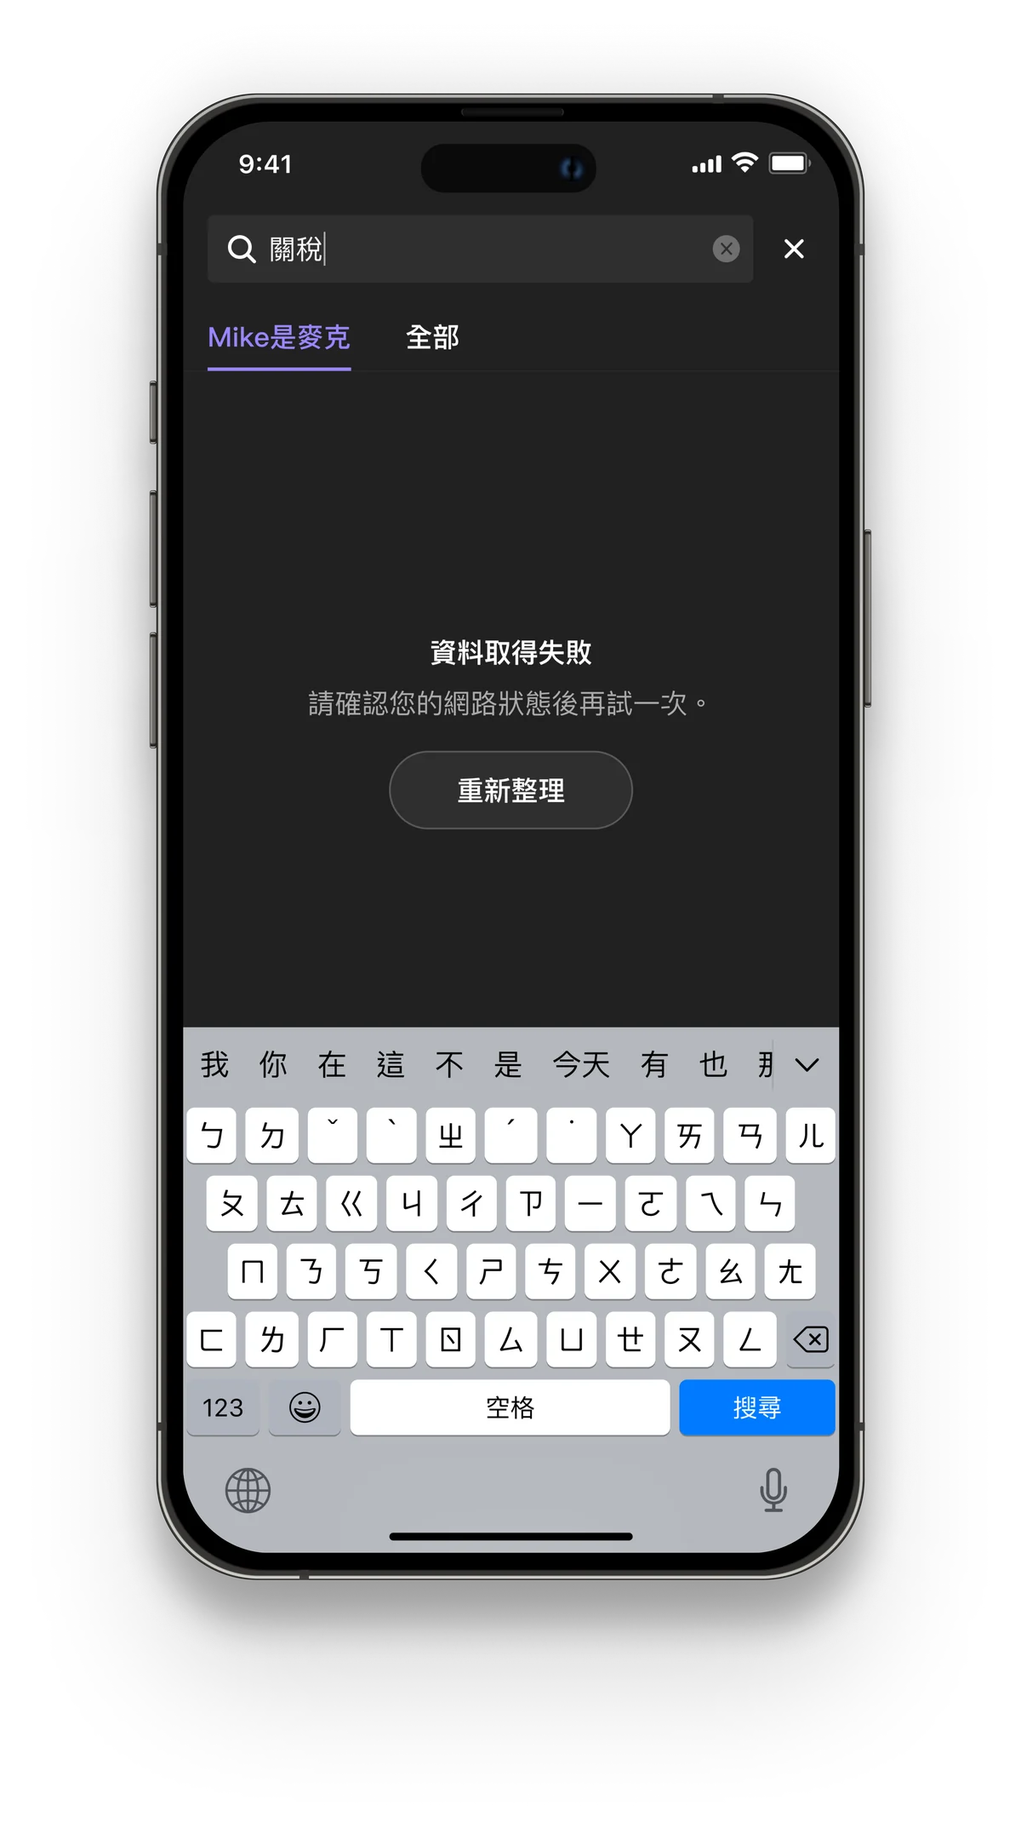
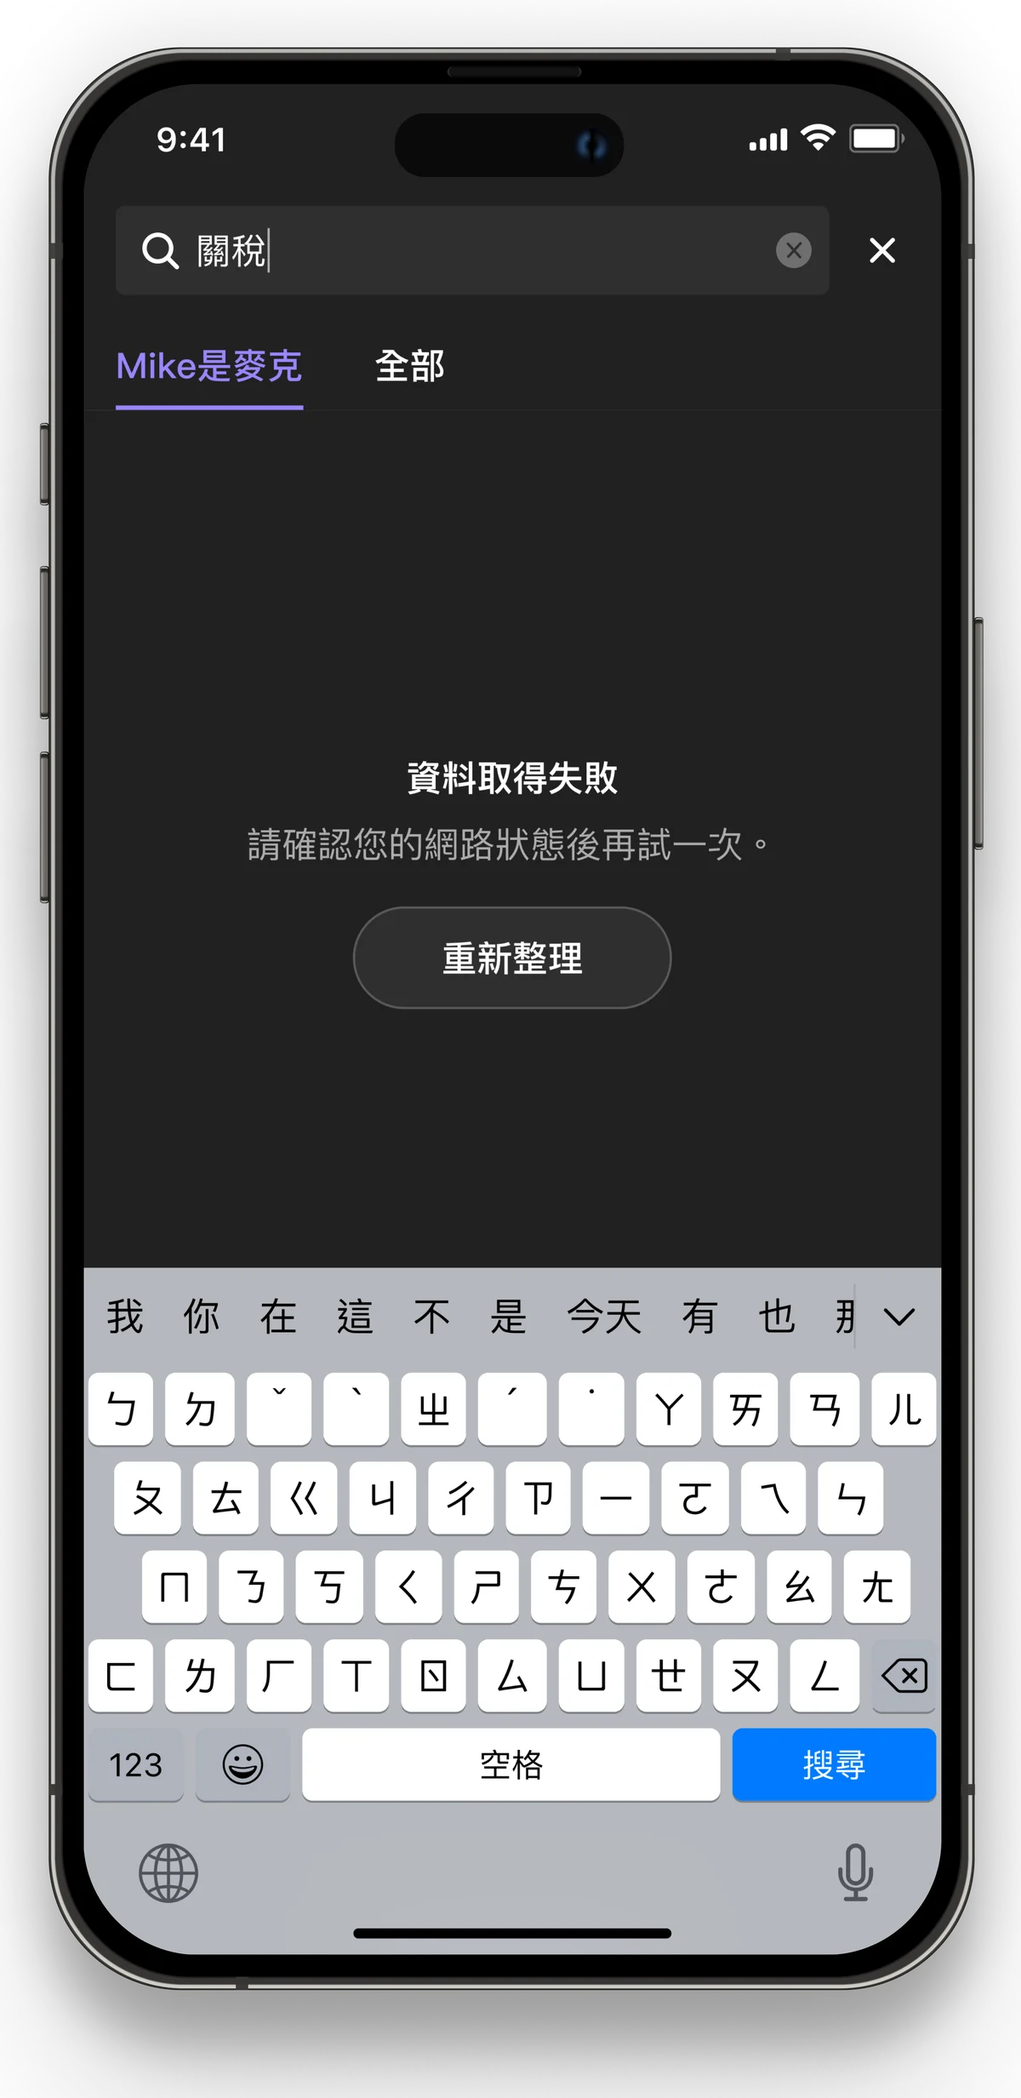
Case 06: trimmed state phone fills its slot
Claude-Session: https://claude.ai/code/session_01GjEy689vh6dg91TD7dTNVD

diff --git a/works/work-06-chat.html b/works/work-06-chat.html
@@ -7,7 +7,7 @@
 <meta name="description" content="Jade Shih 作品：APP 聊天室訊息搜尋功能優化，從問題定義到解法設計與規格交付。">
 <link rel="stylesheet" href="../jade-portfolio-ds/tokens.css?v=202611131750">
 <link rel="stylesheet" href="../jade-portfolio-ds/components/bundle.css?v=202611131750">
-<link rel="stylesheet" href="../site.css?v=202611181334">
+<link rel="stylesheet" href="../site.css?v=202611181340">
 </head>
 <body>
 <a class="skip" href="#main">跳到主要內容</a>
@@ -38,7 +38,7 @@
     </div>
     <div class="cs-cards"></div>
     <div class="cs-gallery"></div>
-    <section class="cs-sec ch-problem"><header class="cs-sec__head"><p class="eyebrow">The problem</p><h2 class="cs-sec__title">What Went Wrong<small>發生了什麼問題</small></h2></header><p class="ch-big">聊天室沒有搜尋功能，<em>訊息越多，越難找到重要的那一則。</em></p><div class="ch-problem__grid"><div class="ch-pains"><article class="ch-pain"><span class="ch-pain__no">01</span><h3>找不到</h3><p>想回顧重要公告、投資事件或作者觀點，只能不斷往上滑，效率低下。</p></article><article class="ch-pain"><span class="ch-pain__no">02</span><h3>被淹沒</h3><p>關鍵訊息很快被新訊息蓋過，降低了訊息本身的價值。</p></article><article class="ch-pain"><span class="ch-pain__no">03</span><h3>不想留</h3><p>訊息量快速累積，用戶對聊天室的黏著度可能下降。</p></article></div><div class="ch-pimg"><picture><source srcset="../public/works/work-06-chat/web-01.webp?v=1118h" type="image/webp"><img src="../public/works/work-06-chat/web-01.png?v=1118h" width="2400" height="1515" alt="聊天室訊息堆疊，重要訊息被淹沒的示意" loading="lazy" decoding="async"></picture></div></div></section><section class="cs-sec"><header class="cs-sec__head"><p class="eyebrow">Who needs it</p><h2 class="cs-sec__title">User Stories<small>誰需要這個功能</small></h2></header><div class="ch-users"><article class="ch-user" data-tone="pink"><b>一般用戶</b><p>身為一般用戶，訊息數量龐大時，想輸入關鍵字快速找到過往對話。</p></article><article class="ch-user" data-tone="pink"><b>一般用戶</b><p>身為一般用戶，找到目標訊息後，想點擊直接跳到原位置、回顧上下文。</p></article><article class="ch-user" data-tone="cyan"><b>產品經理／營運</b><p>身為產品經理／營運，想提供穩定快速的搜尋，提高黏著度並維持競爭力。</p></article><article class="ch-user" data-tone="cyan"><b>客服／管理者</b><p>身為客服／管理者，處理糾紛時，想快速找到相關紀錄、降低人力成本。</p></article></div></section><section class="cs-sec"><header class="cs-sec__head"><p class="eyebrow">The solution</p><h2 class="cs-sec__title">How I Solved It<small>我怎麼解決</small></h2><p class="cs-sec__lead">以「找得到 → 看得懂 → 回得去」為主軸：搜尋、看摘要判斷、跳回原訊息檢視上下文。</p></header><div class="ch-rib"><svg class="ch-rib__bg" viewBox="0 0 1200 400" preserveAspectRatio="none" aria-hidden="true"><path d="M-20 250 C 180 140, 300 330, 520 290 S 820 150, 1000 260 S 1180 300, 1230 200" fill="none" stroke="#C2FF0A" stroke-width="54" stroke-linecap="round"/></svg><figure class="ch-rib__step"><figcaption><span>1</span><b>Search</b>輸入關鍵字</figcaption><div class="ch-phone"><picture><source srcset="../public/works/work-06-chat/web-02.webp" type="image/webp"><img src="../public/works/work-06-chat/web-02.jpg" width="1170" height="2532" alt="Search：輸入關鍵字" loading="lazy" decoding="async"></picture></div></figure><span class="ch-rib__arrow" aria-hidden="true">→</span><figure class="ch-rib__step"><figcaption><span>2</span><b>Find</b>看摘要找到目標訊息</figcaption><div class="ch-phone"><picture><source srcset="../public/works/work-06-chat/web-03.webp?v=1118d" type="image/webp"><img src="../public/works/work-06-chat/web-03.jpg?v=1118d" width="1170" height="2532" alt="Find：看摘要找到目標訊息" loading="lazy" decoding="async"></picture></div></figure><span class="ch-rib__arrow" aria-hidden="true">→</span><figure class="ch-rib__step"><figcaption><span>3</span><b>Jump</b>跳回原訊息、回顧上下文</figcaption><div class="ch-phone"><picture><source srcset="../public/works/work-06-chat/web-04.webp?v=1118c" type="image/webp"><img src="../public/works/work-06-chat/web-04.jpg?v=1118c" width="1170" height="2532" alt="Jump：跳回原訊息、回顧上下文" loading="lazy" decoding="async"></picture></div></figure></div></section><section class="cs-sec"><header class="cs-sec__head"><p class="eyebrow">Key decisions</p><h2 class="cs-sec__title">Design Decisions<small>關鍵設計決策</small></h2></header><article class="ch-dec"><div class="ch-dec__img"><div class="ch-sq"><picture><source srcset="../public/works/work-06-chat/web-05.webp?v=1118e" type="image/webp"><img src="../public/works/work-06-chat/web-05.png?v=1118e" width="1200" height="1200" alt="搜尋結果摘要：關鍵字高亮的兩行摘要" loading="lazy" decoding="async"></picture></div></div><div class="ch-dec__txt"><p class="eyebrow">Decision 01</p><h3>Smart Snippet<small>搜尋結果摘要</small></h3><ul><li>每則結果最多兩行，以「關鍵句＋前後句平均擴展」組成摘要，一眼看出上下文</li><li>關鍵字以主色高亮；同一則訊息有多組關鍵字只算一筆結果，但全部高亮</li><li>裁切時絕不切斷關鍵字，超出部分以「…」收尾</li></ul></div></article><article class="ch-dec ch-dec--flip"><div class="ch-dec__img"><div class="ch-sq"><picture><source srcset="../public/works/work-06-chat/web-06.webp?v=1118e" type="image/webp"><img src="../public/works/work-06-chat/web-06.png?v=1118e" width="1200" height="1200" alt="作者／全部雙頁籤與搜尋範圍提示" loading="lazy" decoding="async"></picture></div></div><div class="ch-dec__txt"><p class="eyebrow">Decision 02</p><h3>Two Tabs<small>作者／全部 雙頁籤</small></h3><ul><li>把作者（Mike是麥克）的發言獨立成第一個 Tab，最有價值的觀點優先看到</li><li>預設頁籤規則：作者有結果先選作者；作者無結果自動切到「全部」</li><li>結果上方標註「僅顯示近三個月結果」，讓搜尋範圍透明</li></ul></div></article><article class="ch-dec"><div class="ch-dec__img"><div class="ch-sq"><picture><source srcset="../public/works/work-06-chat/web-07.webp?v=1118e" type="image/webp"><img src="../public/works/work-06-chat/web-07.png?v=1118e" width="1200" height="1200" alt="Highlight 模式：跳回原訊息並可切換上下則" loading="lazy" decoding="async"></picture></div></div><div class="ch-dec__txt"><p class="eyebrow">Decision 03</p><h3>Highlight Mode<small>跳回原訊息檢視</small></h3><ul><li>點擊結果直接跳回聊天室中的原位置，關鍵字以色塊標示</li><li>底部提供 ↑↓ 切換上一則／下一則結果，到頭尾時自動 disable</li><li>「返回搜尋結果」一鍵回到列表，不必重新搜尋</li></ul></div></article></section><section class="cs-sec"><header class="cs-sec__head"><p class="eyebrow">Spec</p><h2 class="cs-sec__title">Every State Covered<small>完整狀態與規格</small></h2><p class="cs-sec__lead">交付給工程的不只畫面，還包含 12 種 UI 狀態、iOS／Android 長按流程與搜尋規則。</p></header><div class="hcar"><div class="hcar__track"><figure class="hcar__item"><div class=hcar__img><picture><source srcset="../public/works/work-06-chat/web-08.webp?v=1118f" type="image/webp"><img src="../public/works/work-06-chat/web-08.png?v=1118f" width="1200" height="2147" alt="搜尋錯誤" loading="lazy" decoding="async"></picture></div><figcaption>搜尋錯誤</figcaption></figure><figure class="hcar__item"><div class=hcar__img><picture><source srcset="../public/works/work-06-chat/web-09.webp" type="image/webp"><img src="../public/works/work-06-chat/web-09.jpg" width="1200" height="2147" alt="查詢無結果" loading="lazy" decoding="async"></picture></div><figcaption>查詢無結果</figcaption></figure><figure class="hcar__item"><div class="ph" style="aspect-ratio:1200/2147"><span><b>配圖</b>畫面待提供</span></div><figcaption>Loading</figcaption></figure><figure class="hcar__item"><div class="ph" style="aspect-ratio:1200/2147"><span><b>配圖</b>畫面待提供</span></div><figcaption>只輸入一個關鍵字</figcaption></figure><figure class="hcar__item"><div class="ph" style="aspect-ratio:1200/2147"><span><b>配圖</b>畫面待提供</span></div><figcaption>Tab 最大寬度</figcaption></figure><figure class="hcar__item"><div class="ph" style="aspect-ratio:1200/2147"><span><b>配圖</b>畫面待提供</span></div><figcaption>Tab 名稱過長</figcaption></figure><figure class="hcar__item"><div class="ph" style="aspect-ratio:1200/2147"><span><b>配圖</b>畫面待提供</span></div><figcaption>往下載入</figcaption></figure><figure class="hcar__item"><div class="ph" style="aspect-ratio:1200/2147"><span><b>配圖</b>畫面待提供</span></div><figcaption>載入至最底部</figcaption></figure><figure class="hcar__item"><div class="ph" style="aspect-ratio:1200/2147"><span><b>配圖</b>畫面待提供</span></div><figcaption>訊息為一行</figcaption></figure><figure class="hcar__item"><div class="ph" style="aspect-ratio:1200/2147"><span><b>配圖</b>畫面待提供</span></div><figcaption>被引用訊息不 highlight</figcaption></figure><figure class="hcar__item"><div class="ph" style="aspect-ratio:1200/2147"><span><b>配圖</b>畫面待提供</span></div><figcaption>第一則：上一則 disable</figcaption></figure><figure class="hcar__item"><div class="ph" style="aspect-ratio:1200/2147"><span><b>配圖</b>畫面待提供</span></div><figcaption>最後一則：下一則 disable</figcaption></figure></div><div class="kl-dots hcar__dots"></div></div></section><section class="cs-sec ch-result"><header class="cs-sec__head"><p class="eyebrow">Outcome</p><h2 class="cs-sec__title">What Happened Next<small>後續成果</small></h2></header><p class="ch-big ch-big--sm">規格完整交付工程，<em>iOS／Android 雙平台上線。</em></p></section>
+    <section class="cs-sec ch-problem"><header class="cs-sec__head"><p class="eyebrow">The problem</p><h2 class="cs-sec__title">What Went Wrong<small>發生了什麼問題</small></h2></header><p class="ch-big">聊天室沒有搜尋功能，<em>訊息越多，越難找到重要的那一則。</em></p><div class="ch-problem__grid"><div class="ch-pains"><article class="ch-pain"><span class="ch-pain__no">01</span><h3>找不到</h3><p>想回顧重要公告、投資事件或作者觀點，只能不斷往上滑，效率低下。</p></article><article class="ch-pain"><span class="ch-pain__no">02</span><h3>被淹沒</h3><p>關鍵訊息很快被新訊息蓋過，降低了訊息本身的價值。</p></article><article class="ch-pain"><span class="ch-pain__no">03</span><h3>不想留</h3><p>訊息量快速累積，用戶對聊天室的黏著度可能下降。</p></article></div><div class="ch-pimg"><picture><source srcset="../public/works/work-06-chat/web-01.webp?v=1118h" type="image/webp"><img src="../public/works/work-06-chat/web-01.png?v=1118h" width="2400" height="1515" alt="聊天室訊息堆疊，重要訊息被淹沒的示意" loading="lazy" decoding="async"></picture></div></div></section><section class="cs-sec"><header class="cs-sec__head"><p class="eyebrow">Who needs it</p><h2 class="cs-sec__title">User Stories<small>誰需要這個功能</small></h2></header><div class="ch-users"><article class="ch-user" data-tone="pink"><b>一般用戶</b><p>身為一般用戶，訊息數量龐大時，想輸入關鍵字快速找到過往對話。</p></article><article class="ch-user" data-tone="pink"><b>一般用戶</b><p>身為一般用戶，找到目標訊息後，想點擊直接跳到原位置、回顧上下文。</p></article><article class="ch-user" data-tone="cyan"><b>產品經理／營運</b><p>身為產品經理／營運，想提供穩定快速的搜尋，提高黏著度並維持競爭力。</p></article><article class="ch-user" data-tone="cyan"><b>客服／管理者</b><p>身為客服／管理者，處理糾紛時，想快速找到相關紀錄、降低人力成本。</p></article></div></section><section class="cs-sec"><header class="cs-sec__head"><p class="eyebrow">The solution</p><h2 class="cs-sec__title">How I Solved It<small>我怎麼解決</small></h2><p class="cs-sec__lead">以「找得到 → 看得懂 → 回得去」為主軸：搜尋、看摘要判斷、跳回原訊息檢視上下文。</p></header><div class="ch-rib"><svg class="ch-rib__bg" viewBox="0 0 1200 400" preserveAspectRatio="none" aria-hidden="true"><path d="M-20 250 C 180 140, 300 330, 520 290 S 820 150, 1000 260 S 1180 300, 1230 200" fill="none" stroke="#C2FF0A" stroke-width="54" stroke-linecap="round"/></svg><figure class="ch-rib__step"><figcaption><span>1</span><b>Search</b>輸入關鍵字</figcaption><div class="ch-phone"><picture><source srcset="../public/works/work-06-chat/web-02.webp" type="image/webp"><img src="../public/works/work-06-chat/web-02.jpg" width="1170" height="2532" alt="Search：輸入關鍵字" loading="lazy" decoding="async"></picture></div></figure><span class="ch-rib__arrow" aria-hidden="true">→</span><figure class="ch-rib__step"><figcaption><span>2</span><b>Find</b>看摘要找到目標訊息</figcaption><div class="ch-phone"><picture><source srcset="../public/works/work-06-chat/web-03.webp?v=1118d" type="image/webp"><img src="../public/works/work-06-chat/web-03.jpg?v=1118d" width="1170" height="2532" alt="Find：看摘要找到目標訊息" loading="lazy" decoding="async"></picture></div></figure><span class="ch-rib__arrow" aria-hidden="true">→</span><figure class="ch-rib__step"><figcaption><span>3</span><b>Jump</b>跳回原訊息、回顧上下文</figcaption><div class="ch-phone"><picture><source srcset="../public/works/work-06-chat/web-04.webp?v=1118d" type="image/webp"><img src="../public/works/work-06-chat/web-04.jpg?v=1118d" width="1170" height="2532" alt="Jump：跳回原訊息、回顧上下文" loading="lazy" decoding="async"></picture></div></figure></div></section><section class="cs-sec"><header class="cs-sec__head"><p class="eyebrow">Key decisions</p><h2 class="cs-sec__title">Design Decisions<small>關鍵設計決策</small></h2></header><article class="ch-dec"><div class="ch-dec__img"><div class="ch-sq"><picture><source srcset="../public/works/work-06-chat/web-05.webp?v=1118e" type="image/webp"><img src="../public/works/work-06-chat/web-05.png?v=1118e" width="1200" height="1200" alt="搜尋結果摘要：關鍵字高亮的兩行摘要" loading="lazy" decoding="async"></picture></div></div><div class="ch-dec__txt"><p class="eyebrow">Decision 01</p><h3>Smart Snippet<small>搜尋結果摘要</small></h3><ul><li>每則結果最多兩行，以「關鍵句＋前後句平均擴展」組成摘要，一眼看出上下文</li><li>關鍵字以主色高亮；同一則訊息有多組關鍵字只算一筆結果，但全部高亮</li><li>裁切時絕不切斷關鍵字，超出部分以「…」收尾</li></ul></div></article><article class="ch-dec ch-dec--flip"><div class="ch-dec__img"><div class="ch-sq"><picture><source srcset="../public/works/work-06-chat/web-06.webp?v=1118e" type="image/webp"><img src="../public/works/work-06-chat/web-06.png?v=1118e" width="1200" height="1200" alt="作者／全部雙頁籤與搜尋範圍提示" loading="lazy" decoding="async"></picture></div></div><div class="ch-dec__txt"><p class="eyebrow">Decision 02</p><h3>Two Tabs<small>作者／全部 雙頁籤</small></h3><ul><li>把作者（Mike是麥克）的發言獨立成第一個 Tab，最有價值的觀點優先看到</li><li>預設頁籤規則：作者有結果先選作者；作者無結果自動切到「全部」</li><li>結果上方標註「僅顯示近三個月結果」，讓搜尋範圍透明</li></ul></div></article><article class="ch-dec"><div class="ch-dec__img"><div class="ch-sq"><picture><source srcset="../public/works/work-06-chat/web-07.webp?v=1118e" type="image/webp"><img src="../public/works/work-06-chat/web-07.png?v=1118e" width="1200" height="1200" alt="Highlight 模式：跳回原訊息並可切換上下則" loading="lazy" decoding="async"></picture></div></div><div class="ch-dec__txt"><p class="eyebrow">Decision 03</p><h3>Highlight Mode<small>跳回原訊息檢視</small></h3><ul><li>點擊結果直接跳回聊天室中的原位置，關鍵字以色塊標示</li><li>底部提供 ↑↓ 切換上一則／下一則結果，到頭尾時自動 disable</li><li>「返回搜尋結果」一鍵回到列表，不必重新搜尋</li></ul></div></article></section><section class="cs-sec"><header class="cs-sec__head"><p class="eyebrow">Spec</p><h2 class="cs-sec__title">Every State Covered<small>完整狀態與規格</small></h2><p class="cs-sec__lead">交付給工程的不只畫面，還包含 12 種 UI 狀態、iOS／Android 長按流程與搜尋規則。</p></header><div class="hcar"><div class="hcar__track"><figure class="hcar__item"><div class=hcar__img><picture><source srcset="../public/works/work-06-chat/web-08.webp?v=1118i" type="image/webp"><img src="../public/works/work-06-chat/web-08.png?v=1118i" width="1200" height="2465" alt="搜尋錯誤" loading="lazy" decoding="async"></picture></div><figcaption>搜尋錯誤</figcaption></figure><figure class="hcar__item"><div class=hcar__img><picture><source srcset="../public/works/work-06-chat/web-09.webp" type="image/webp"><img src="../public/works/work-06-chat/web-09.jpg" width="1200" height="2465" alt="查詢無結果" loading="lazy" decoding="async"></picture></div><figcaption>查詢無結果</figcaption></figure><figure class="hcar__item"><div class="ph" style="aspect-ratio:1200/2465"><span><b>配圖</b>畫面待提供</span></div><figcaption>Loading</figcaption></figure><figure class="hcar__item"><div class="ph" style="aspect-ratio:1200/2465"><span><b>配圖</b>畫面待提供</span></div><figcaption>只輸入一個關鍵字</figcaption></figure><figure class="hcar__item"><div class="ph" style="aspect-ratio:1200/2465"><span><b>配圖</b>畫面待提供</span></div><figcaption>Tab 最大寬度</figcaption></figure><figure class="hcar__item"><div class="ph" style="aspect-ratio:1200/2465"><span><b>配圖</b>畫面待提供</span></div><figcaption>Tab 名稱過長</figcaption></figure><figure class="hcar__item"><div class="ph" style="aspect-ratio:1200/2465"><span><b>配圖</b>畫面待提供</span></div><figcaption>往下載入</figcaption></figure><figure class="hcar__item"><div class="ph" style="aspect-ratio:1200/2465"><span><b>配圖</b>畫面待提供</span></div><figcaption>載入至最底部</figcaption></figure><figure class="hcar__item"><div class="ph" style="aspect-ratio:1200/2465"><span><b>配圖</b>畫面待提供</span></div><figcaption>訊息為一行</figcaption></figure><figure class="hcar__item"><div class="ph" style="aspect-ratio:1200/2465"><span><b>配圖</b>畫面待提供</span></div><figcaption>被引用訊息不 highlight</figcaption></figure><figure class="hcar__item"><div class="ph" style="aspect-ratio:1200/2465"><span><b>配圖</b>畫面待提供</span></div><figcaption>第一則：上一則 disable</figcaption></figure><figure class="hcar__item"><div class="ph" style="aspect-ratio:1200/2465"><span><b>配圖</b>畫面待提供</span></div><figcaption>最後一則：下一則 disable</figcaption></figure></div><div class="kl-dots hcar__dots"></div></div></section><section class="cs-sec ch-result"><header class="cs-sec__head"><p class="eyebrow">Outcome</p><h2 class="cs-sec__title">What Happened Next<small>後續成果</small></h2></header><p class="ch-big ch-big--sm">規格完整交付工程，<em>iOS／Android 雙平台上線。</em></p></section>
   </div>
 </section>
 
@@ -77,6 +77,6 @@
 
 <div class="ycur" id="ycur" aria-hidden="true"><svg viewBox="0 0 40 40"><path d="M5 3 L34 18 L20 21 L13 34 Z"/></svg><span class="ycur__tag">YOU</span></div>
 
-<script src="../site.js?v=202611181334"></script>
+<script src="../site.js?v=202611181340"></script>
 </body>
 </html>

diff --git a/tools/case_extra.py b/tools/case_extra.py
@@ -157,7 +157,7 @@ def chat():
       f'</div></section>'
     f'<section class="cs-sec">{sh("Key decisions","Design Decisions","關鍵設計決策")}{decs}</section>'
     f'<section class="cs-sec">{sh("Spec","Every State Covered","完整狀態與規格","交付給工程的不只畫面，還包含 12 種 UI 狀態、iOS／Android 長按流程與搜尋規則。")}'
-    f'<div class="hcar"><div class="hcar__track">'+''.join(f'<figure class="hcar__item">{(f"<div class=hcar__img>"+pic(C+c,1200,2147,x)+"</div>") if c else ph("畫面待提供","1200/2147")}<figcaption>{x}</figcaption></figure>' for x,c in states)+'</div><div class="kl-dots hcar__dots"></div></div></section>'
+    f'<div class="hcar"><div class="hcar__track">'+''.join(f'<figure class="hcar__item">{(f"<div class=hcar__img>"+pic(C+c,1200,2465,x)+"</div>") if c else ph("畫面待提供","1200/2465")}<figcaption>{x}</figcaption></figure>' for x,c in states)+'</div><div class="kl-dots hcar__dots"></div></div></section>'
 
     f'<section class="cs-sec ch-result">{sh("Outcome","What Happened Next","後續成果")}<p class="ch-big ch-big--sm">規格完整交付工程，<em>iOS／Android 雙平台上線。</em></p></section>'
   )
